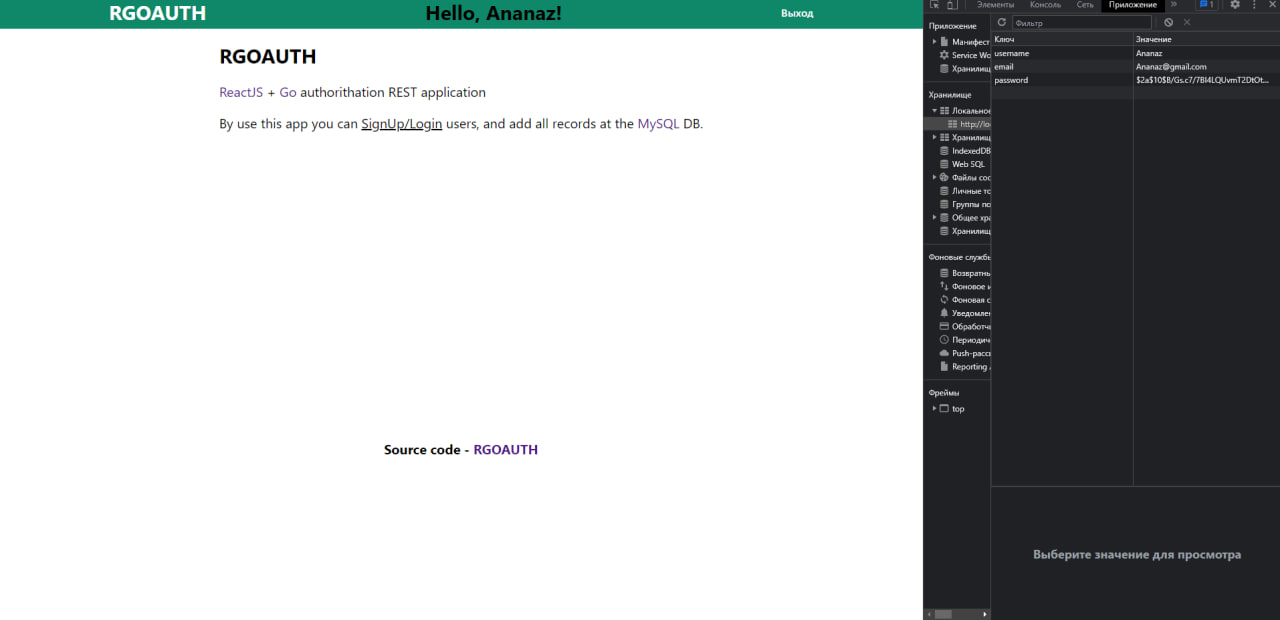
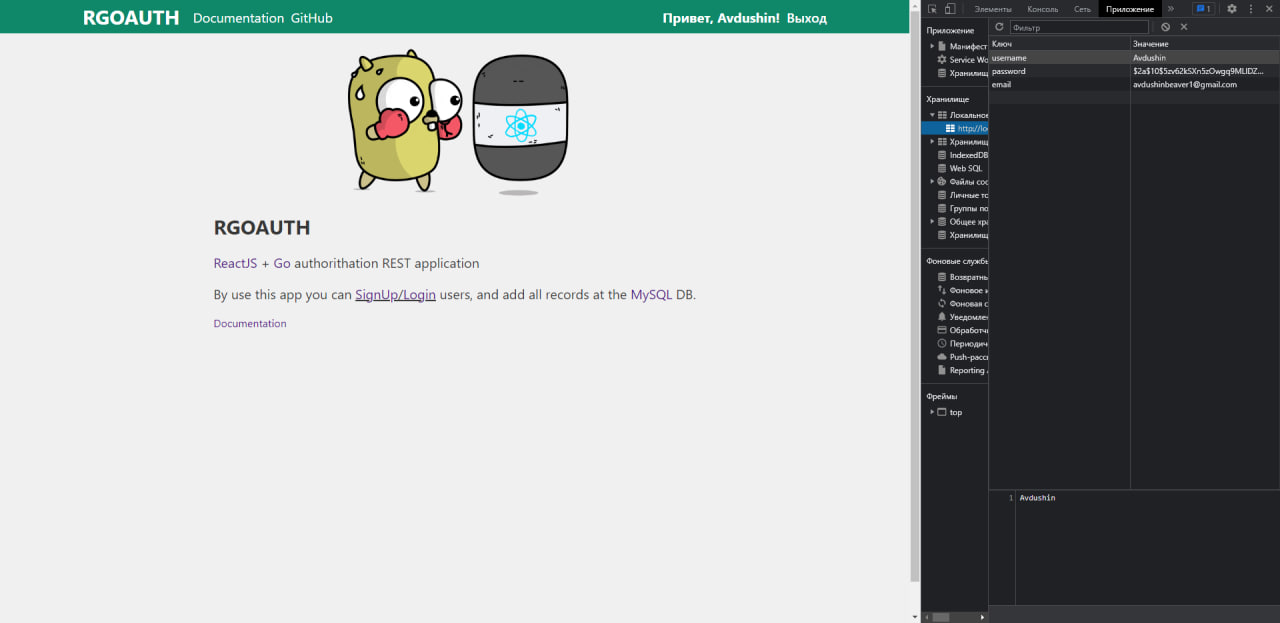
Fixed frontend erroes, updated README.md file

diff --git a/frontend/src/Pages/Docs/index.js b/frontend/src/Pages/Docs/index.js
@@ -15,8 +15,7 @@ const Docs = () => {
                 <ul><a href="#handlers#/">/ heandler</a></ul>
                 <ul><a href="#handlers#/login">/login heandler</a></ul>
                 <ul><a href="#handlers#/signup">/signup heandler</a></ul>
-            <li><a href="#section-3">Раздел 3</a></li>
-
+            <li><a href="#db-mysql">База данных</a></li>
           </ul>
         </div>
       </div>

diff --git a/frontend/src/Signup/index.js b/frontend/src/Signup/index.js
@@ -71,7 +71,6 @@ function RegistrationForm() {
                         value={email}
                         onChange={handleEmailChange} 
                         placeholder='Enter email'
-                        pattern="[a-z0-9._%+-]+@[a-z0-9.-]+\.[a-z]{2,}$"
                         required />
                     </label>
                 </div>

diff --git a/frontend/src/Login/index.js b/frontend/src/Login/index.js
@@ -52,7 +52,6 @@ function LoginForm() {
             value={email}
             onChange={handleEmailChange}
             placeholder='Enter your email'
-            pattern="[a-z0-9._%+-]+@[a-z0-9.-]+\.[a-z]{2,}$"
             required />
           </label>
         </div>

diff --git a/README.md b/README.md
@@ -1,5 +1,18 @@
 # RGOAUTH
 
+[![pwreview](docs/img/prew.gif)](https://youtu.be/t2KiHOXKsUA)
+
+<!-- [![pwreview]()](https://youtu.be/t2KiHOXKsUA) [DEMO]() -->
+
+<div align="center">
+  <a href="https://youtu.be/t2KiHOXKsUA" target="_blank">
+    <img src="docs/img/i/yt.png" alt="yt-cion" width="12px">
+  </a>
+  <a href="https://youtu.be/t2KiHOXKsUA" target="_blank">
+    DEMO
+  </a>
+</div> <br>
+
 ### REST-API авторизации ReactJS + Go + MySQL.
 ### Данная утилита является хуком для написания REST AUTH. Все данные хранятся в `localStorage()` (локальном хранилище)
 
@@ -16,7 +29,7 @@
 
   ### loggined user
 \
-![](docs/img/1.jpg)
+![](docs/img/login.jpg)
   
 </details>
 
@@ -63,17 +76,6 @@
 
 ![](docs/img/db/users_example.jpg)
 
-
-<!-- ### Таблица Sessions
-  
-структура:
-
-![](docs/img/db/sessions_struct.jpg)
-
-пример:
-
-![](docs/img/db/sessions_example.jpg) -->
-
 </details>
 
 
@@ -113,7 +115,5 @@ go build -o server main.go # make build
 
 ## TODO
 
-- improve backend architecture
-- improve client styles
 - responsive client
 - debug client
